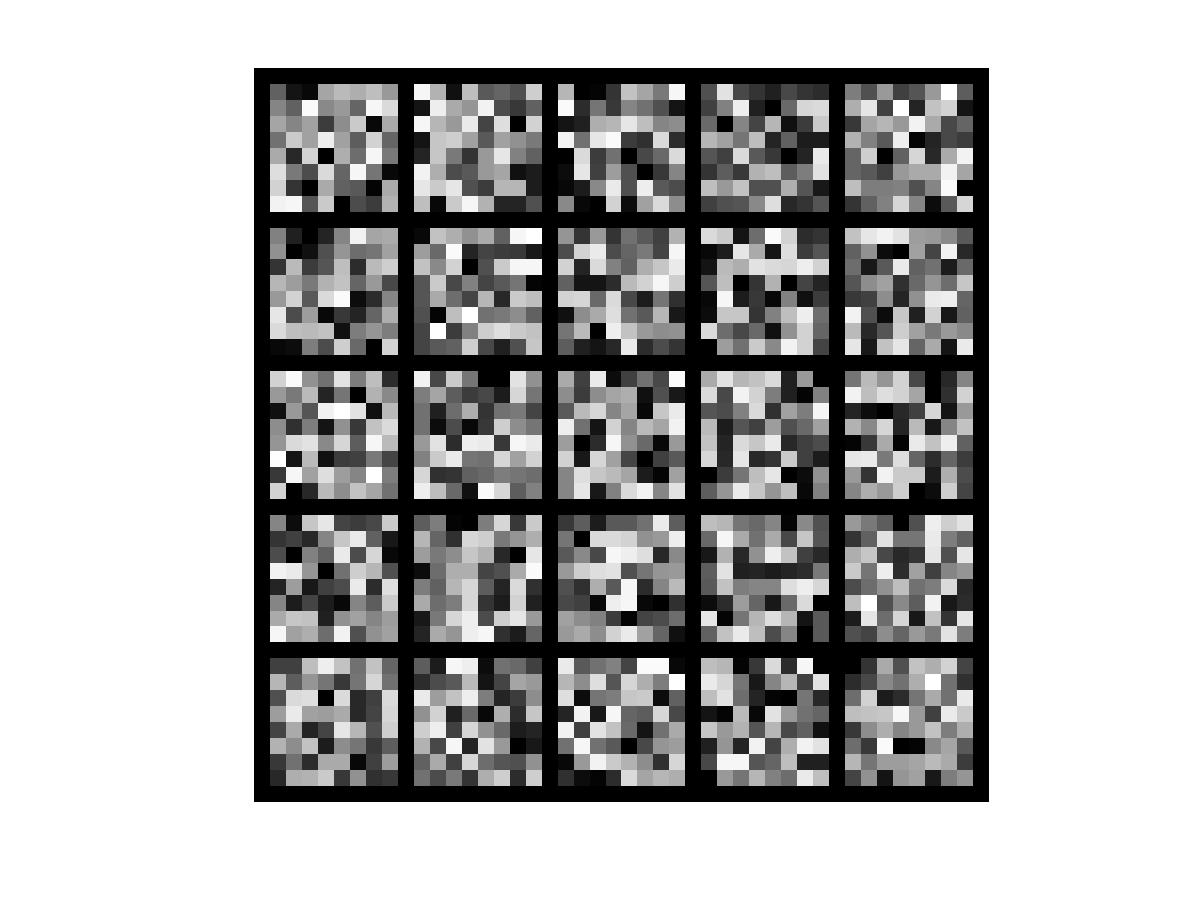
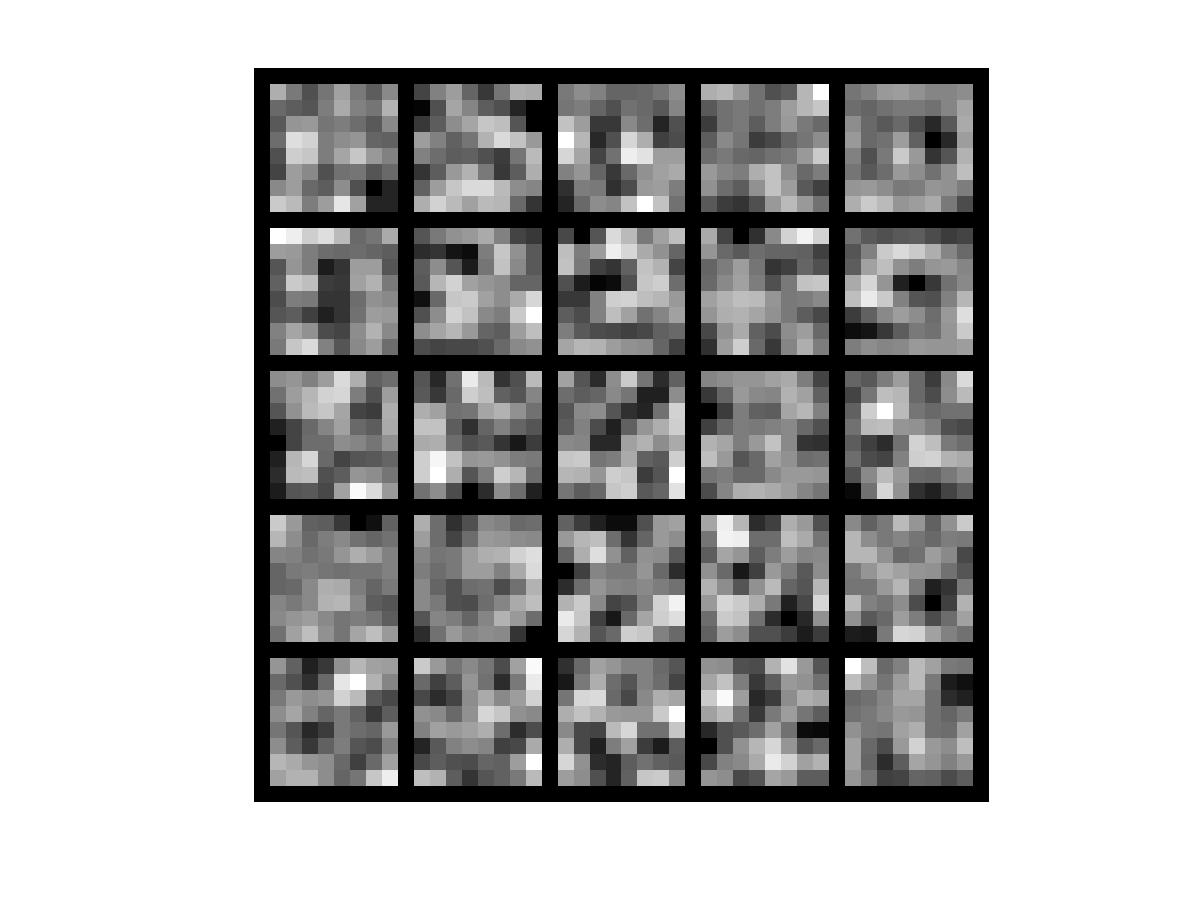
weight_decay_term

Changed region(s): [[0.2157, 0.0932, 0.8318, 0.8701]]

diff --git a/starter/sparseAutoencoderCost.m b/starter/sparseAutoencoderCost.m
@@ -42,28 +42,21 @@ b2grad = zeros(size(b2));
 % the gradient descent update to W1 would be W1 := W1 - alpha * W1grad, and similarly for W2, b1, b2. 
 % 
 
-for i=1:10000
-    A = sigmoid(W1*data(:,i)+b1);
-    output = sigmoid(W2*A+b2);
+
+    A = sigmoid(W1*data+repmat(b1,1,size(data,2)));
+    output = sigmoid(W2*A+repmat(b2,1,size(data,2)));
     
-    err=(output-data(:,i)).*output.*(1-output);   
-    W2grad=W2grad+err*A';
-    b2grad=b2grad+err;
+    err=(output-data).*output.*(1-output);   
+    W2grad=err*A'/size(data,2)+lambda*W2;
+    b2grad=sum(err,2)/size(data,2);
     
     a2err=(W2'*err).*A.*(1-A);
-    W1grad=W1grad+a2err*data(:,i)';
-    b1grad=b1grad+a2err;
-    cost=cost+sum((output-data(:,i)).^2);
-end
-cost=cost/(2*10000);
-W2grad=W2grad/10000;
-b2grad=b2grad/10000;
-W1grad=W1grad/10000;
-b1grad=b1grad/10000;
-%W2=W2-W2grad;
-%b2=b2-b2grad;
-%W1=W1-W1grad;
-%b1=b1-b1grad;
+    W1grad=a2err*data'/size(data,2)+lambda*W1;
+    b1grad=sum(a2err,2)/size(data,2);
+    
+    weight_de=0.5*lambda*(sum(sum(W1.^2))+sum(sum(W2.^2)));
+    cost=sum(sum((output-data).^2))/(2*size(data,2))+weight_de;
+
 
 
 
@@ -72,7 +65,7 @@ b1grad=b1grad/10000;
 % to a vector format (suitable for minFunc).  Specifically, we will unroll
 % your gradient matrices into a vector.
 
-grad = [W1grad(:) ; W2grad(:) ; b2grad(:) ; b2grad(:)];
+grad = [W1grad(:) ; W2grad(:) ; b1grad(:) ; b2grad(:)];
 
 end
 

diff --git a/starter/train.m b/starter/train.m
@@ -75,7 +75,7 @@ theta = initializeParameters(hiddenSize, visibleSize);
 % First, lets make sure your numerical gradient computation is correct for a
 % simple function.  After you have implemented computeNumericalGradient.m,
 % run the following: 
-checkNumericalGradient();
+%checkNumericalGradient();
 
 % Now we can use it to check your cost function and derivative calculations
 % for the sparse autoencoder.  
